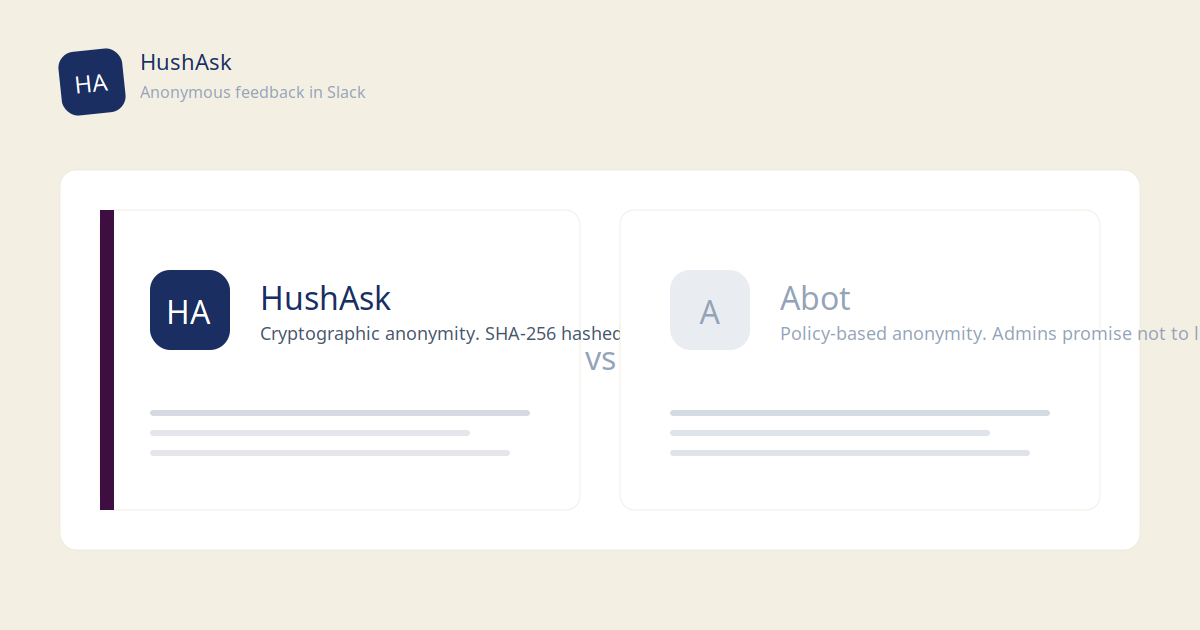
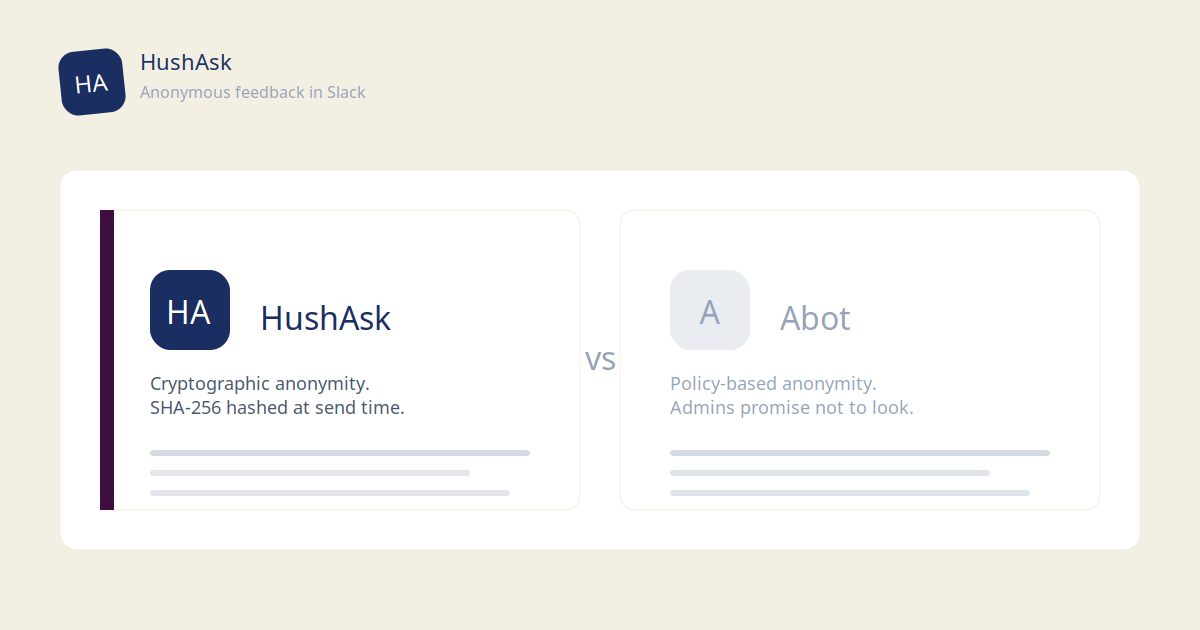
site: card aspect ratio + comparison hero text wrap (v=3)
Two fixes after live verification:

1. blog/index.html — article card image was fixed at 220px height with
   42% width (aspect ~1.3:1), which cropped the new 1200x630 (1.9:1)
   heros and only showed the right portion (the message area). Changed
   to aspect-ratio: 1200/630 with object-position: center so the hero
   displays in full at its native proportions, both desktop and mobile.

2. assets/blog-hero-5.{png,-og.png} — comparison hero captions were
   overflowing the panel boundary (single-line text running past the
   480px panel width). Captions now wrap to two lines via <tspan>,
   bars moved down to make room. generate_heros.py updated so future
   comparison heros use the new layout.

Cache buster bumped from ?v=2 to ?v=3 on all hero img references so
the CDN fetches the new hero-5.

diff --git a/blog/index.html b/blog/index.html
@@ -88,9 +88,9 @@
     .article-card p { font-size: 15px; color: #6B7280; line-height: 1.65; }
     .article-card .read-more { display: inline-block; margin-top: 14px; font-size: 13px; font-weight: 600; color: #2563EB; }
     .article-card-row { display: flex; gap: 32px; align-items: center; }
-    .article-card-row .article-card-img { width: 42%; flex-shrink: 0; height: 220px; object-fit: cover; object-position: right center; border-radius: 10px; display: block; }
+    .article-card-row .article-card-img { width: 42%; flex-shrink: 0; aspect-ratio: 1200 / 630; object-fit: cover; object-position: center; border-radius: 10px; display: block; }
     .article-card-row .article-card-text { flex: 1; min-width: 0; }
-    @media (max-width: 768px) { .article-card-row { flex-direction: column; gap: 16px; } .article-card-row .article-card-img { width: 100%; height: auto; aspect-ratio: 4/3; object-fit: cover; object-position: right top; } }
+    @media (max-width: 768px) { .article-card-row { flex-direction: column; gap: 16px; } .article-card-row .article-card-img { width: 100%; aspect-ratio: 1200 / 630; object-fit: cover; object-position: center; } }
 
     /* FOOTER */
     footer { background: var(--bg-dark); border-top: 1px solid var(--border-dark); padding: 32px 40px; }
@@ -156,7 +156,7 @@
 
     <div class="article-list">
       <a href="/blog/google-forms-anonymous-employee-feedback" class="article-card article-card-row">
-        <img src="/assets/blog-hero-6.png?v=2" alt="Are Google Forms Actually Anonymous for Workplace Feedback?" class="article-card-img">
+        <img src="/assets/blog-hero-6.png?v=3" alt="Are Google Forms Actually Anonymous for Workplace Feedback?" class="article-card-img">
         <div class="article-card-text">
           <div class="article-date">April 19, 2026</div>
           <h2>Are Google Forms Actually Anonymous for Workplace Feedback?</h2>
@@ -166,7 +166,7 @@
       </a>
 
       <a href="/blog/hushask-vs-abot-anonymous-slack-tool" class="article-card article-card-row">
-        <img src="/assets/blog-hero-5.png?v=2" alt="HushAsk vs Abot anonymous Slack tool comparison" class="article-card-img">
+        <img src="/assets/blog-hero-5.png?v=3" alt="HushAsk vs Abot anonymous Slack tool comparison" class="article-card-img">
         <div class="article-card-text">
           <div class="article-date">April 9, 2026</div>
           <h2>HushAsk vs. Abot: Which Anonymous Slack Tool Actually Protects Identity?</h2>
@@ -175,7 +175,7 @@
         </div>
       </a>
       <a href="/blog/building-a-team-knowledge-base-from-anonymous-qa" class="article-card article-card-row">
-        <img src="/assets/blog-hero-4.png?v=2" alt="Building a team knowledge base from anonymous Q&A" class="article-card-img">
+        <img src="/assets/blog-hero-4.png?v=3" alt="Building a team knowledge base from anonymous Q&A" class="article-card-img">
         <div class="article-card-text">
           <div class="article-date">April 7, 2026</div>
           <h2>Building a Team Knowledge Base from Anonymous Q&amp;A</h2>
@@ -184,7 +184,7 @@
         </div>
       </a>
       <a href="/blog/why-employees-wont-use-anonymous-feedback-tool" class="article-card article-card-row">
-        <img src="/assets/blog-hero-3.png?v=2" alt="Why employees won't use anonymous feedback tools" class="article-card-img">
+        <img src="/assets/blog-hero-3.png?v=3" alt="Why employees won't use anonymous feedback tools" class="article-card-img">
         <div class="article-card-text">
           <div class="article-date">April 1, 2026</div>
           <h2>Why Your Employees Won't Use an Anonymous Feedback Tool (and How to Fix It)</h2>
@@ -193,7 +193,7 @@
         </div>
       </a>
       <a href="/blog/is-anonymous-feedback-in-slack-actually-anonymous" class="article-card article-card-row">
-        <img src="/assets/blog-hero-2.png?v=2" alt="Is anonymous feedback in Slack actually anonymous?" class="article-card-img">
+        <img src="/assets/blog-hero-2.png?v=3" alt="Is anonymous feedback in Slack actually anonymous?" class="article-card-img">
         <div class="article-card-text">
           <div class="article-date">March 22, 2026</div>
           <h2>Is Anonymous Feedback in Slack Actually Anonymous?</h2>
@@ -202,7 +202,7 @@
         </div>
       </a>
       <a href="/blog/how-to-collect-anonymous-employee-feedback-in-slack" class="article-card article-card-row">
-        <img src="/assets/blog-hero-1.png?v=2" alt="How to collect anonymous employee feedback in Slack" class="article-card-img">
+        <img src="/assets/blog-hero-1.png?v=3" alt="How to collect anonymous employee feedback in Slack" class="article-card-img">
         <div class="article-card-text">
           <div class="article-date">March 22, 2026</div>
           <h2>How to Collect Anonymous Employee Feedback in Slack</h2>

diff --git a/blog/building-a-team-knowledge-base-from-anonymous-qa.html b/blog/building-a-team-knowledge-base-from-anonymous-qa.html
@@ -10,11 +10,11 @@
   <meta property="og:url" content="https://hushask.com/blog/building-a-team-knowledge-base-from-anonymous-qa">
   <meta property="og:title" content="Building a Team Knowledge Base from Anonymous Q&amp;A — HushAsk">
   <meta property="og:description" content="Most knowledge bases fail because nobody writes things down proactively. Anonymous Q&amp;A flips the model — questions get asked, answered, and saved to Notion automatically.">
-  <meta property="og:image" content="https://hushask.com/assets/blog-hero-4-og.png?v=2">
+  <meta property="og:image" content="https://hushask.com/assets/blog-hero-4-og.png?v=3">
   <meta name="twitter:card" content="summary_large_image">
   <meta name="twitter:title" content="Building a Team Knowledge Base from Anonymous Q&amp;A — HushAsk">
   <meta name="twitter:description" content="Most knowledge bases fail because nobody writes things down proactively. Anonymous Q&amp;A flips the model — questions get asked, answered, and saved to Notion automatically.">
-  <meta name="twitter:image" content="https://hushask.com/assets/blog-hero-4-og.png?v=2">
+  <meta name="twitter:image" content="https://hushask.com/assets/blog-hero-4-og.png?v=3">
   <link rel="icon" type="image/x-icon" href="/favicon.ico">
   <link rel="icon" type="image/png" sizes="32x32" href="/assets/favicon-32x32.png">
   <link rel="icon" type="image/png" sizes="16x16" href="/assets/favicon-16x16.png">

diff --git a/blog/why-employees-wont-use-anonymous-feedback-tool.html b/blog/why-employees-wont-use-anonymous-feedback-tool.html
@@ -10,11 +10,11 @@
   <meta property="og:url" content="https://hushask.com/blog/why-employees-wont-use-anonymous-feedback-tool">
   <meta property="og:title" content="Why Your Employees Won't Use an Anonymous Feedback Tool (and How to Fix It) — HushAsk">
   <meta property="og:description" content="Low participation in your anonymous feedback tool isn't apathy — it's a rational response to broken promises. Here's what actually changes it.">
-  <meta property="og:image" content="https://hushask.com/assets/blog-hero-3-og.png?v=2">
+  <meta property="og:image" content="https://hushask.com/assets/blog-hero-3-og.png?v=3">
   <meta name="twitter:card" content="summary_large_image">
   <meta name="twitter:title" content="Why Your Employees Won't Use an Anonymous Feedback Tool (and How to Fix It) — HushAsk">
   <meta name="twitter:description" content="Low participation in your anonymous feedback tool isn't apathy — it's a rational response to broken promises. Here's what actually changes it.">
-  <meta name="twitter:image" content="https://hushask.com/assets/blog-hero-3-og.png?v=2">
+  <meta name="twitter:image" content="https://hushask.com/assets/blog-hero-3-og.png?v=3">
   <link rel="icon" type="image/x-icon" href="/favicon.ico">
   <link rel="icon" type="image/png" sizes="32x32" href="/assets/favicon-32x32.png">
   <link rel="icon" type="image/png" sizes="16x16" href="/assets/favicon-16x16.png">

diff --git a/blog/google-forms-anonymous-employee-feedback.html b/blog/google-forms-anonymous-employee-feedback.html
@@ -10,11 +10,11 @@
   <meta property="og:url" content="https://hushask.com/blog/google-forms-anonymous-employee-feedback">
   <meta property="og:title" content="Are Google Forms Actually Anonymous for Workplace Feedback? — HushAsk">
   <meta property="og:description" content="Google Forms can be set to anonymous, but Workspace audit logs and narrow demographic questions often leak identity anyway. Here's what Google records.">
-  <meta property="og:image" content="https://hushask.com/assets/blog-hero-6-og.png?v=2">
+  <meta property="og:image" content="https://hushask.com/assets/blog-hero-6-og.png?v=3">
   <meta name="twitter:card" content="summary_large_image">
   <meta name="twitter:title" content="Are Google Forms Actually Anonymous for Workplace Feedback? — HushAsk">
   <meta name="twitter:description" content="Google Forms can be set to anonymous, but Workspace audit logs and narrow demographic questions often leak identity anyway. Here's what Google records.">
-  <meta name="twitter:image" content="https://hushask.com/assets/blog-hero-6-og.png?v=2">
+  <meta name="twitter:image" content="https://hushask.com/assets/blog-hero-6-og.png?v=3">
   <link rel="icon" type="image/x-icon" href="/favicon.ico">
   <link rel="icon" type="image/png" sizes="32x32" href="/assets/favicon-32x32.png">
   <link rel="icon" type="image/png" sizes="16x16" href="/assets/favicon-16x16.png">

diff --git a/blog/is-anonymous-feedback-in-slack-actually-anonymous.html b/blog/is-anonymous-feedback-in-slack-actually-anonymous.html
@@ -10,11 +10,11 @@
   <meta property="og:url" content="https://hushask.com/blog/is-anonymous-feedback-in-slack-actually-anonymous">
   <meta property="og:title" content="Is Anonymous Feedback in Slack Actually Anonymous? — HushAsk">
   <meta property="og:description" content='"Anonymous" usually means someone promised not to look. Cryptographic anonymity means the information doesn&apos;t exist. Here&apos;s the difference — and how to check which one you have.'>
-  <meta property="og:image" content="https://hushask.com/assets/blog-hero-2-og.png?v=2">
+  <meta property="og:image" content="https://hushask.com/assets/blog-hero-2-og.png?v=3">
   <meta name="twitter:card" content="summary_large_image">
   <meta name="twitter:title" content="Is Anonymous Feedback in Slack Actually Anonymous? — HushAsk">
   <meta name="twitter:description" content='"Anonymous" usually means someone promised not to look. Cryptographic anonymity means the information doesn&apos;t exist.'>
-  <meta name="twitter:image" content="https://hushask.com/assets/blog-hero-2-og.png?v=2">
+  <meta name="twitter:image" content="https://hushask.com/assets/blog-hero-2-og.png?v=3">
   <link rel="icon" type="image/x-icon" href="/favicon.ico">
   <link rel="icon" type="image/png" sizes="32x32" href="/assets/favicon-32x32.png">
   <link rel="icon" type="image/png" sizes="16x16" href="/assets/favicon-16x16.png">

diff --git a/blog/hushask-vs-abot-anonymous-slack-tool.html b/blog/hushask-vs-abot-anonymous-slack-tool.html
@@ -10,11 +10,11 @@
   <meta property="og:url" content="https://hushask.com/blog/hushask-vs-abot-anonymous-slack-tool">
   <meta property="og:title" content="HushAsk vs. Abot: Which Anonymous Slack Tool Actually Protects Identity?">
   <meta property="og:description" content="Both tools promise anonymity. One backs it with cryptography. A straight comparison of HushAsk and Abot on what actually happens to your Slack user ID.">
-  <meta property="og:image" content="https://hushask.com/assets/blog-hero-5-og.png?v=2">
+  <meta property="og:image" content="https://hushask.com/assets/blog-hero-5-og.png?v=3">
   <meta name="twitter:card" content="summary_large_image">
   <meta name="twitter:title" content="HushAsk vs. Abot: Which Anonymous Slack Tool Actually Protects Identity?">
   <meta name="twitter:description" content="Both tools promise anonymity. One backs it with cryptography. A straight comparison of HushAsk and Abot on what actually happens to your Slack user ID.">
-  <meta name="twitter:image" content="https://hushask.com/assets/blog-hero-5-og.png?v=2">
+  <meta name="twitter:image" content="https://hushask.com/assets/blog-hero-5-og.png?v=3">
   <link rel="icon" type="image/x-icon" href="/favicon.ico">
   <link rel="icon" type="image/png" sizes="32x32" href="/assets/favicon-32x32.png">
   <link rel="icon" type="image/png" sizes="16x16" href="/assets/favicon-16x16.png">

diff --git a/blog/how-to-collect-anonymous-employee-feedback-in-slack.html b/blog/how-to-collect-anonymous-employee-feedback-in-slack.html
@@ -10,11 +10,11 @@
   <meta property="og:url" content="https://hushask.com/blog/how-to-collect-anonymous-employee-feedback-in-slack">
   <meta property="og:title" content="How to Collect Anonymous Employee Feedback in Slack — HushAsk">
   <meta property="og:description" content="Most anonymous feedback tools make a promise. HushAsk makes it technically impossible to identify you. Here's what that difference means in practice.">
-  <meta property="og:image" content="https://hushask.com/assets/blog-hero-1-og.png?v=2">
+  <meta property="og:image" content="https://hushask.com/assets/blog-hero-1-og.png?v=3">
   <meta name="twitter:card" content="summary_large_image">
   <meta name="twitter:title" content="How to Collect Anonymous Employee Feedback in Slack — HushAsk">
   <meta name="twitter:description" content="Most anonymous feedback tools make a promise. HushAsk makes it technically impossible to identify you. Here's what that difference means in practice.">
-  <meta name="twitter:image" content="https://hushask.com/assets/blog-hero-1-og.png?v=2">
+  <meta name="twitter:image" content="https://hushask.com/assets/blog-hero-1-og.png?v=3">
   <link rel="icon" type="image/x-icon" href="/favicon.ico">
   <link rel="icon" type="image/png" sizes="32x32" href="/assets/favicon-32x32.png">
   <link rel="icon" type="image/png" sizes="16x16" href="/assets/favicon-16x16.png">
